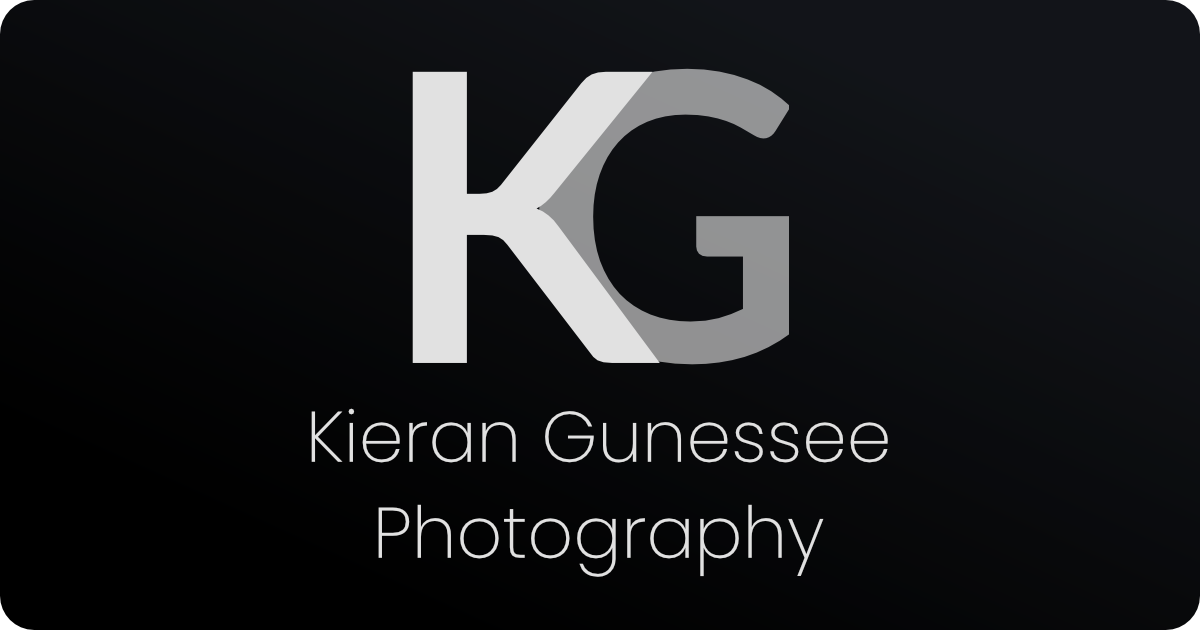
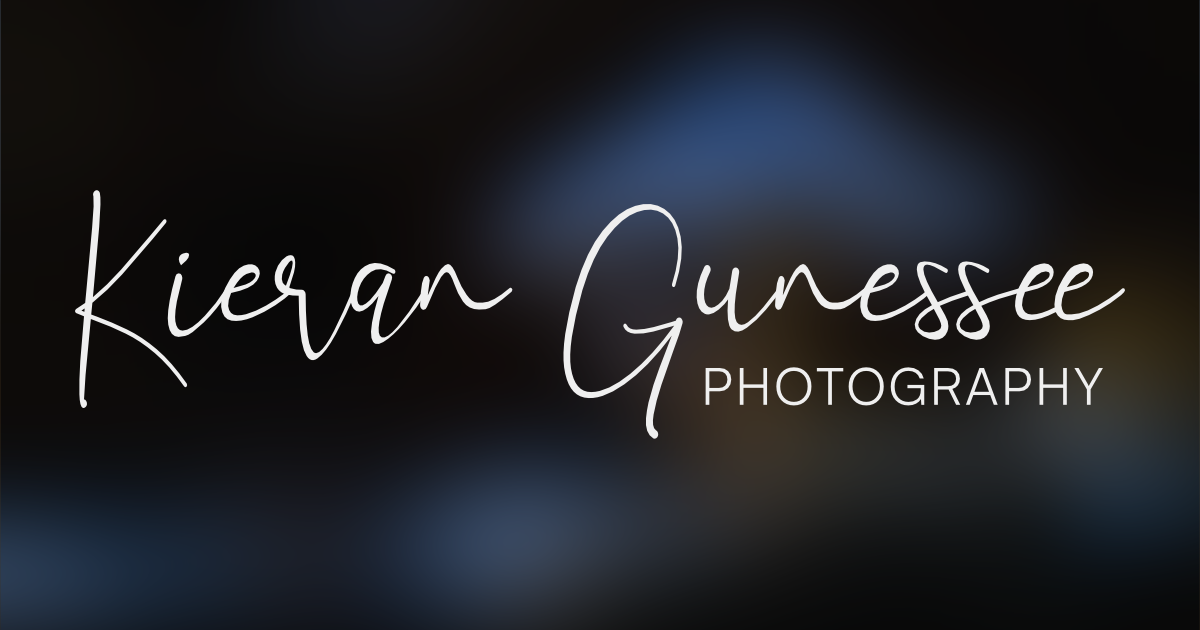
Added 4 new images from cannock chase. Added the new filter button for this location.
Also changed the opengl image to the new logo, and updated the favicon. This now also includes other icons for apple, a png etc.

Removed the MobileLogo.jsx as this was unused.

diff --git a/src/app/components/ImageInfo.jsx b/src/app/components/ImageInfo.jsx
@@ -2042,7 +2042,7 @@ export const landscapeImageInfo = [
     keywords: ["uk", "midlands", "hills", "wide angle"],
   },
   {
-    thumb: "/images/thumbnails/landscape/thumb_Standing at the End.webp",
+    thumb: "/images/thumbnails/landscape/thumb_A Foggy Morning.webp",
     fullRes:
       "https://res.cloudinary.com/dpnomv7av/image/upload/f_auto,q_auto,fl_awebp/v1/Landscape/fs_Standing at the End.webp",
     ["2100px"]:
@@ -2385,7 +2385,8 @@ export const woodlandImageInfo = [
     keywords: ["uk", "midlands", "summer", "wide angle"],
   },
   {
-    thumb: "/images/thumbnails/woodland/thumb_Fall in suspense.webp",
+    thumb:
+      "/images/thumbnails/woodland/thumb_Sun Shining on a Silver Birch.webp",
     fullRes:
       "https://res.cloudinary.com/dpnomv7av/image/upload/f_auto,q_auto,fl_awebp/v1/Woodland/fs_Fall in suspense.webp",
     ["2100px"]:

diff --git a/src/app/page.jsx b/src/app/page.jsx
@@ -58,7 +58,10 @@ export default function Home() {
             <div
               className={`absolute left-0 top-0 flex h-full w-full flex-col items-center justify-center gap-4 bg-black/70 px-4 lg:gap-8`}
             >
-              <MainLogo mobileWidth={"w-[300px]"} desktopWidth={"w-[450px]"} />
+              <MainLogo
+                mobileWidth={"w-[300px]"}
+                desktopWidth={"md:w-[450px]"}
+              />
 
               <h1
                 className={`mb-1 text-center text-xl font-light text-almostWhite`}

diff --git a/src/app/woodland/page.jsx b/src/app/woodland/page.jsx
@@ -30,7 +30,13 @@ export default function Woodland() {
         images={woodlandData.woodlandImageInfo}
         bgColourDark={"dark:to-emerald-700/10"}
         bgColourLight={"to-almostWhite"}
-        locations={["UK", "Midlands", "Devon", "Peak District"]}
+        locations={[
+          "UK",
+          "Midlands",
+          "Devon",
+          "Peak District",
+          "Cannock Chase",
+        ]}
         nonAstroKeywords={[
           "Spring",
           "Summer",

diff --git a/src/app/locations/page.jsx b/src/app/locations/page.jsx
@@ -59,7 +59,7 @@ export default function locations() {
               category={"/midlands"}
               title={"THE MIDLANDS"}
               imageUrl={
-                "/images/thumbnails/landscape/thumb_Standing at the End.webp"
+                "/images/thumbnails/landscape/thumb_A Foggy Morning.webp"
               }
               alt={"The Midlands category image"}
             />

diff --git a/src/app/components/Header.jsx b/src/app/components/Header.jsx
@@ -67,7 +67,7 @@ export default function Header({ isHomepage = false }) {
     >
       <Link href={"/"}>
         {!isHomepage && (
-          <MainLogo mobileWidth={"w-[175px]"} desktopWidth={"w-[250px]"} />
+          <MainLogo mobileWidth={"w-[175px]"} desktopWidth={"md:w-[250px]"} />
         )}
       </Link>
       <div className={`flex items-center gap-2`}>

diff --git a/src/app/components/Logos_Icons.jsx b/src/app/components/Logos_Icons.jsx
@@ -1,7 +1,7 @@
 export function MainLogo({ mobileWidth, desktopWidth }) {
   return (
     <svg
-      className={`h-auto ${mobileWidth} md:${desktopWidth}`}
+      className={`h-auto ${mobileWidth} ${desktopWidth}`}
       xmlns="http://www.w3.org/2000/svg"
       xmlSpace="preserve"
       fillRule="evenodd"
